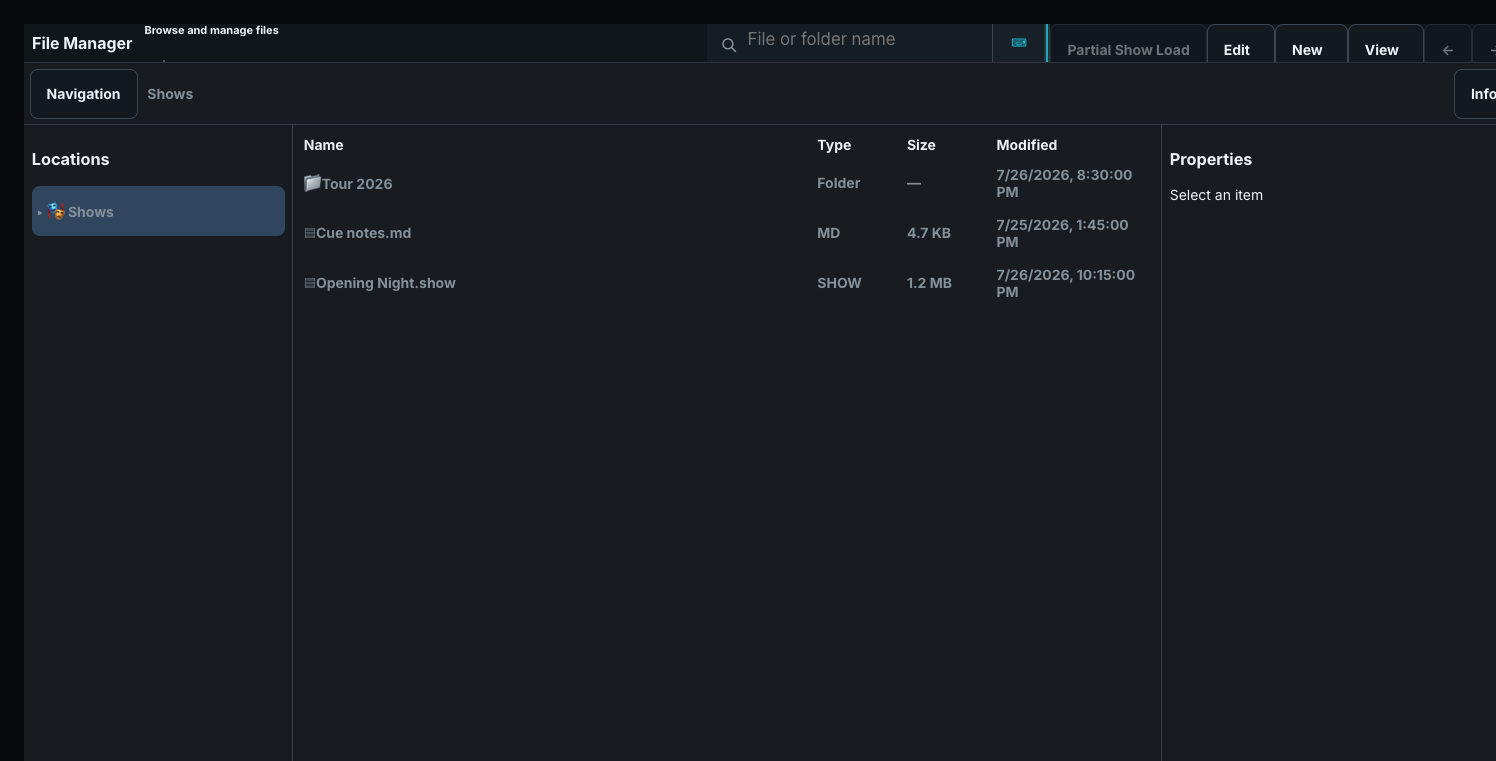
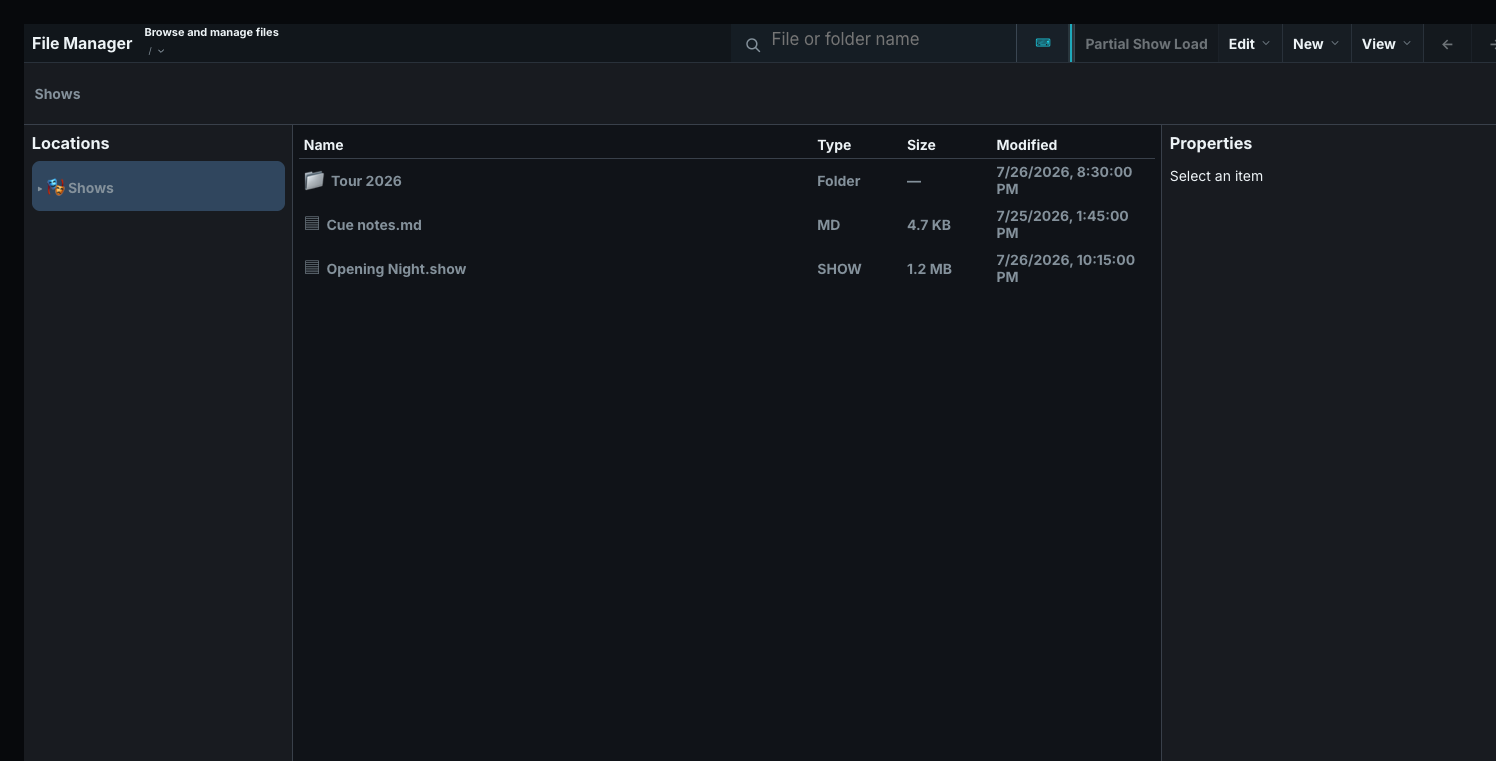
fix(ui): restore file workspace styles

diff --git a/apps/light-desktop/src/windows/FileManagerWindow.css b/apps/light-desktop/src/windows/FileManagerWindow.css
@@ -1,1 +1,4 @@
 /* Ordered imports preserve the File Manager cascade. */
+@import "./fileManager/chrome.css";
+@import "./fileManager/browser.css";
+@import "./fileManager/operations.css";

diff --git a/apps/light-desktop/src/windows/fileManager/chrome.css b/apps/light-desktop/src/windows/fileManager/chrome.css
@@ -3,10 +3,6 @@
 	position: relative;
 }
 
-.text-editor {
-	container: text-editor / inline-size;
-}
-
 .pane-chrome-info-target,
 .pane-chrome-toolbar-target {
 	min-width: 0;
